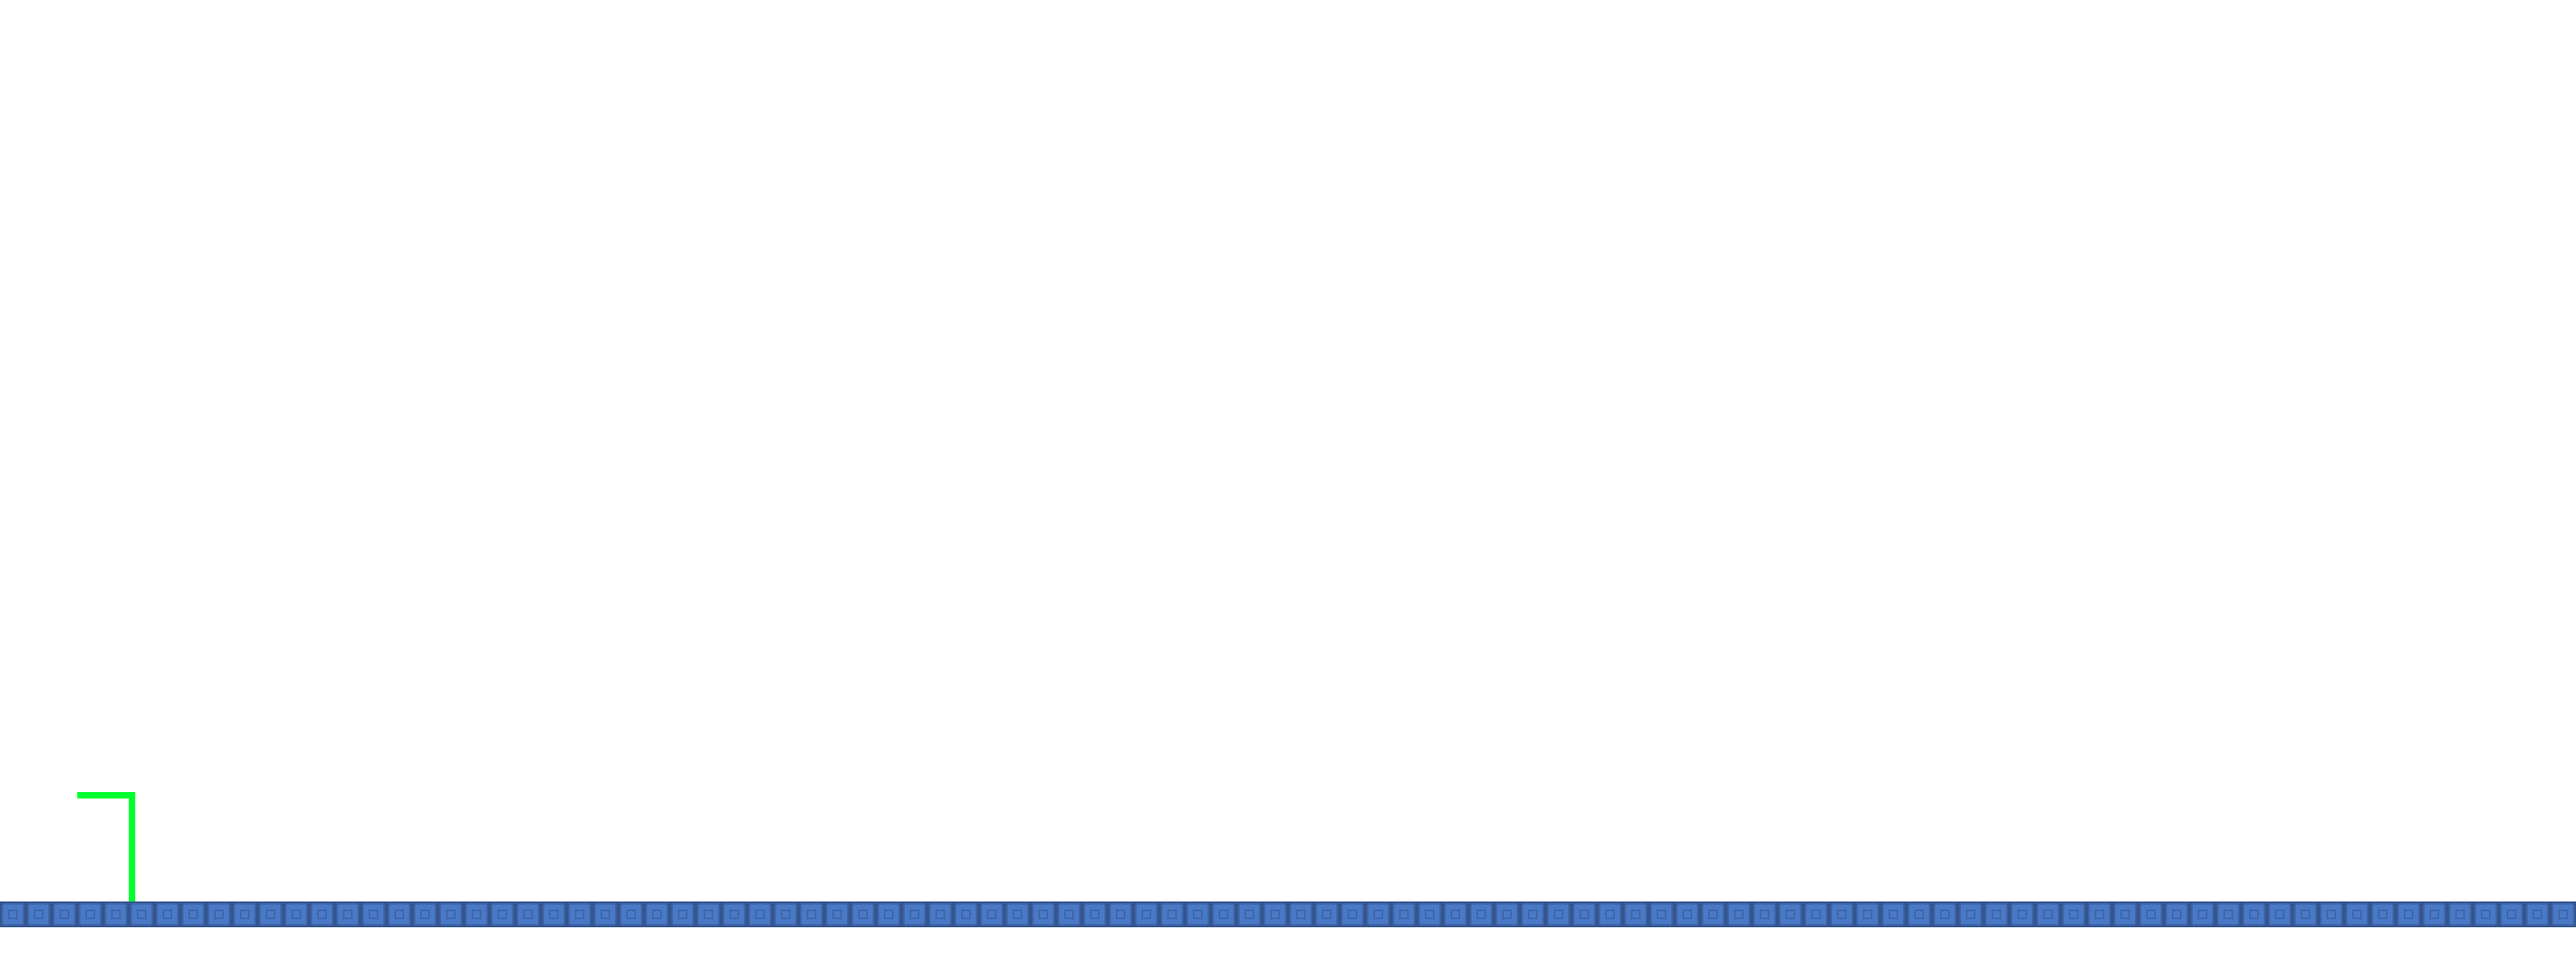
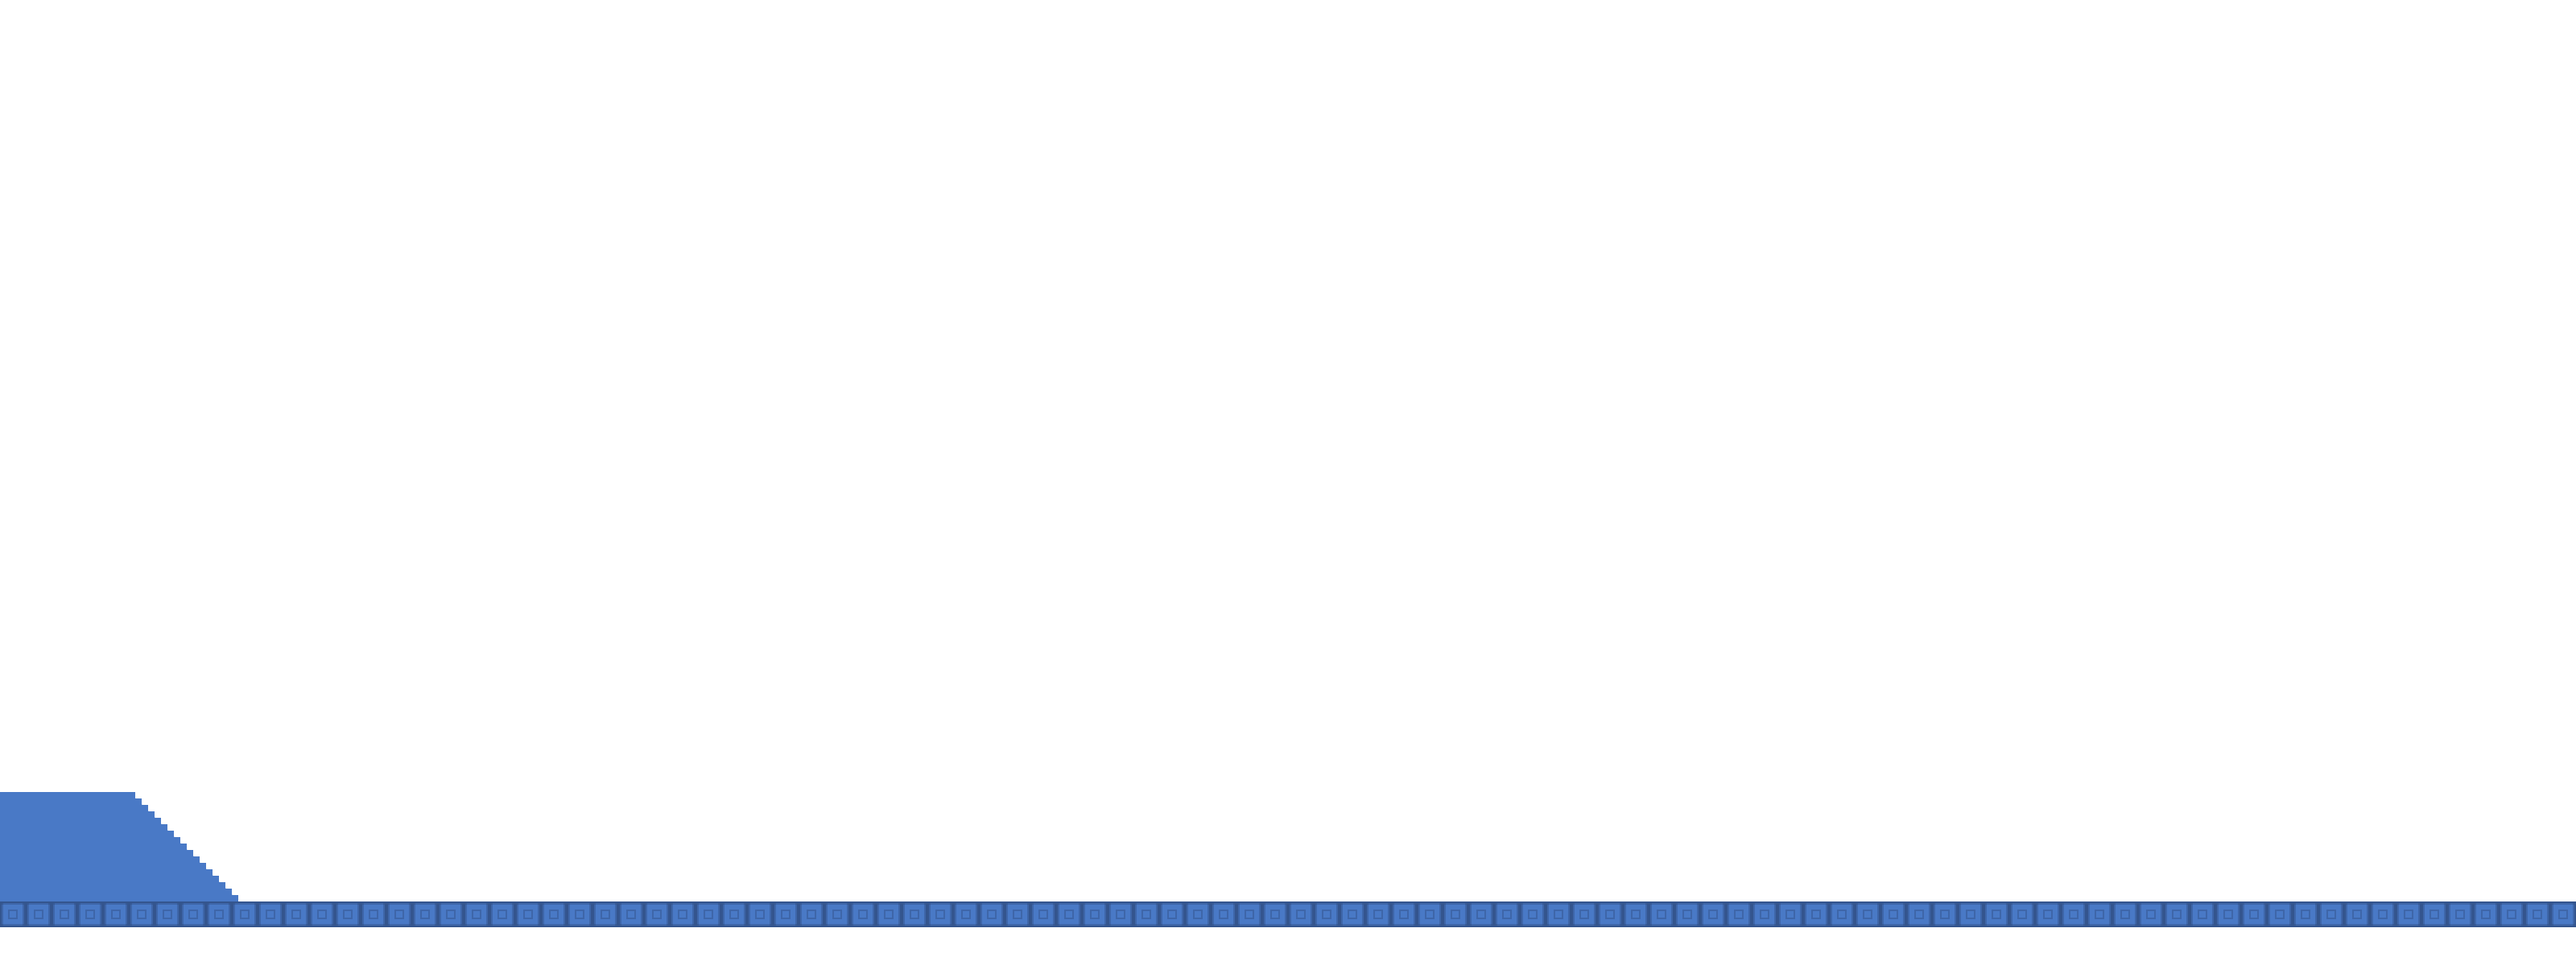
Fixed stair walking

Changed region(s): [[0.0, 0.8125, 0.0938, 0.9688]]

diff --git a/src/com/elveskevtar/divebomb/gfx/Game.java b/src/com/elveskevtar/divebomb/gfx/Game.java
@@ -612,6 +612,7 @@ public abstract class Game extends JPanel implements KeyListener,
 		this.userRanged = userRanged;
 	}
 
+	/* Handles projectile motion and angles */
 	private class Projectiles extends TimerTask {
 
 		@Override
@@ -634,7 +635,7 @@ public abstract class Game extends JPanel implements KeyListener,
 							}
 						if (socketServer != null)
 							for (Player player : socketServer.connectedPlayers) {
-								//System.out.println(socketServer.connectedPlayers.size());
+								// System.out.println(socketServer.connectedPlayers.size());
 								if (new Rectangle((int) -p.getxPosition(),
 										(int) -p.getyPosition(), p.getWidth(),
 										p.getHeight())
@@ -645,7 +646,7 @@ public abstract class Game extends JPanel implements KeyListener,
 												.getBounds().height - 14))
 										&& !player.isDead()
 										&& (p.getVelox() != 0 || p.getVeloy() != 0)) {
-									//System.out.println("SET");
+									// System.out.println("SET");
 									ArrayList<Player> attacked = new ArrayList<Player>();
 									attacked.add(player);
 									p.attack(attacked, true);
@@ -697,6 +698,7 @@ public abstract class Game extends JPanel implements KeyListener,
 		}
 	}
 
+	/* Handles the animation of player weapons (only matters for clients) */
 	private class PlayerWeapons extends TimerTask {
 
 		@Override
@@ -747,6 +749,7 @@ public abstract class Game extends JPanel implements KeyListener,
 		}
 	}
 
+	/* Handles the input from the keyboard (only matters for clients) */
 	private class Input extends TimerTask {
 
 		@Override
@@ -869,6 +872,7 @@ public abstract class Game extends JPanel implements KeyListener,
 		}
 	}
 
+	/* Handles the animation of the players (only matters for clients) */
 	private class AnimatePlayers extends TimerTask {
 
 		int t = 0;
@@ -941,6 +945,10 @@ public abstract class Game extends JPanel implements KeyListener,
 		}
 	}
 
+	/*
+	 * This is the subclass for handling the stamina value for each player (only
+	 * matters if server or singleplayer)
+	 */
 	private class Stamina extends TimerTask {
 
 		@Override
@@ -962,6 +970,12 @@ public abstract class Game extends JPanel implements KeyListener,
 		}
 	}
 
+	/*
+	 * When editing this subclass, make sure to edit both the code for single
+	 * player (socketClient == null) and multiplayer (socketClient != null).
+	 * Also, in player.checkCollisions(), 1 = left or right; 3 = up, and 4 =
+	 * down.
+	 */
 	private class MovePlayers extends TimerTask {
 
 		@Override
@@ -971,6 +985,21 @@ public abstract class Game extends JPanel implements KeyListener,
 					if (p.getVeloX() != 0 && !p.checkCollisions().contains(1)
 							&& !p.isDead())
 						p.setxPosition(p.getxPosition() + p.getVeloX());
+					else if (p.getVeloX() != 0
+							&& p.checkCollisions().contains(1)) {
+						boolean flag = false;
+						for (Rectangle r : getCollisionRecs())
+							if (new Rectangle(
+									(int) (p.getBounds().x + 10 - p.getVeloX()),
+									p.getBounds().y + 6,
+									p.getBounds().width - 20,
+									p.getBounds().height - 14).intersects(r))
+								flag = true;
+						if (!flag) {
+							p.setyPosition(p.getyPosition() + 8);
+							p.setxPosition(p.getxPosition() + p.getVeloX());
+						}
+					}
 					if (p.getVeloY() > 0 && !p.checkCollisions().contains(3)
 							&& !p.isDead())
 						p.setyPosition(p.getyPosition() + p.getVeloY());
@@ -1036,6 +1065,22 @@ public abstract class Game extends JPanel implements KeyListener,
 				if (user.getVeloX() != 0 && !user.checkCollisions().contains(1)
 						&& !user.isDead())
 					user.setxPosition(user.getxPosition() + user.getVeloX());
+				else if (user.getVeloX() != 0
+						&& user.checkCollisions().contains(1)) {
+					boolean flag = false;
+					for (Rectangle r : getCollisionRecs())
+						if (new Rectangle(
+								(int) (user.getBounds().x + 10 - user
+										.getVeloX()),
+								user.getBounds().y + 6,
+								user.getBounds().width - 20,
+								user.getBounds().height - 14).intersects(r))
+							flag = true;
+					if (!flag) {
+						user.setyPosition(user.getyPosition() + 8);
+						user.setxPosition(user.getxPosition() + user.getVeloX());
+					}
+				}
 				if (user.getVeloY() > 0 && !user.checkCollisions().contains(3)
 						&& !user.isDead())
 					user.setyPosition(user.getyPosition() + user.getVeloY());
@@ -1110,6 +1155,7 @@ public abstract class Game extends JPanel implements KeyListener,
 		}
 	}
 
+	/* TimerTask that repaints the screen */
 	private class Repaint extends TimerTask {
 
 		@Override

diff --git a/src/com/elveskevtar/divebomb/maps/SpawnPoints.java b/src/com/elveskevtar/divebomb/maps/SpawnPoints.java
@@ -2,7 +2,7 @@ package com.elveskevtar.divebomb.maps;
 
 public enum SpawnPoints {
 
-	TESTMAP1(0, 1, 1, -160, -1056), TESTMAP2(0, 1, 2, 0, -1056), TESTMAP3(0, 2,
+	TESTMAP1(0, 1, 1, -160, -902), TESTMAP2(0, 1, 2, 0, -902), TESTMAP3(0, 2,
 			3, -1000, -1056), TESTMAP4(0, 2, 4, -1128, -1056);
 
 	private int mapID;

diff --git a/src/com/elveskevtar/divebomb/gfx/GameDeathmatchMP.java b/src/com/elveskevtar/divebomb/gfx/GameDeathmatchMP.java
@@ -230,6 +230,7 @@ public class GameDeathmatchMP extends Game {
 
 	private class CheckForEndGame extends Thread {
 
+		@SuppressWarnings("deprecation")
 		@Override
 		public void run() {
 			while (true) {
